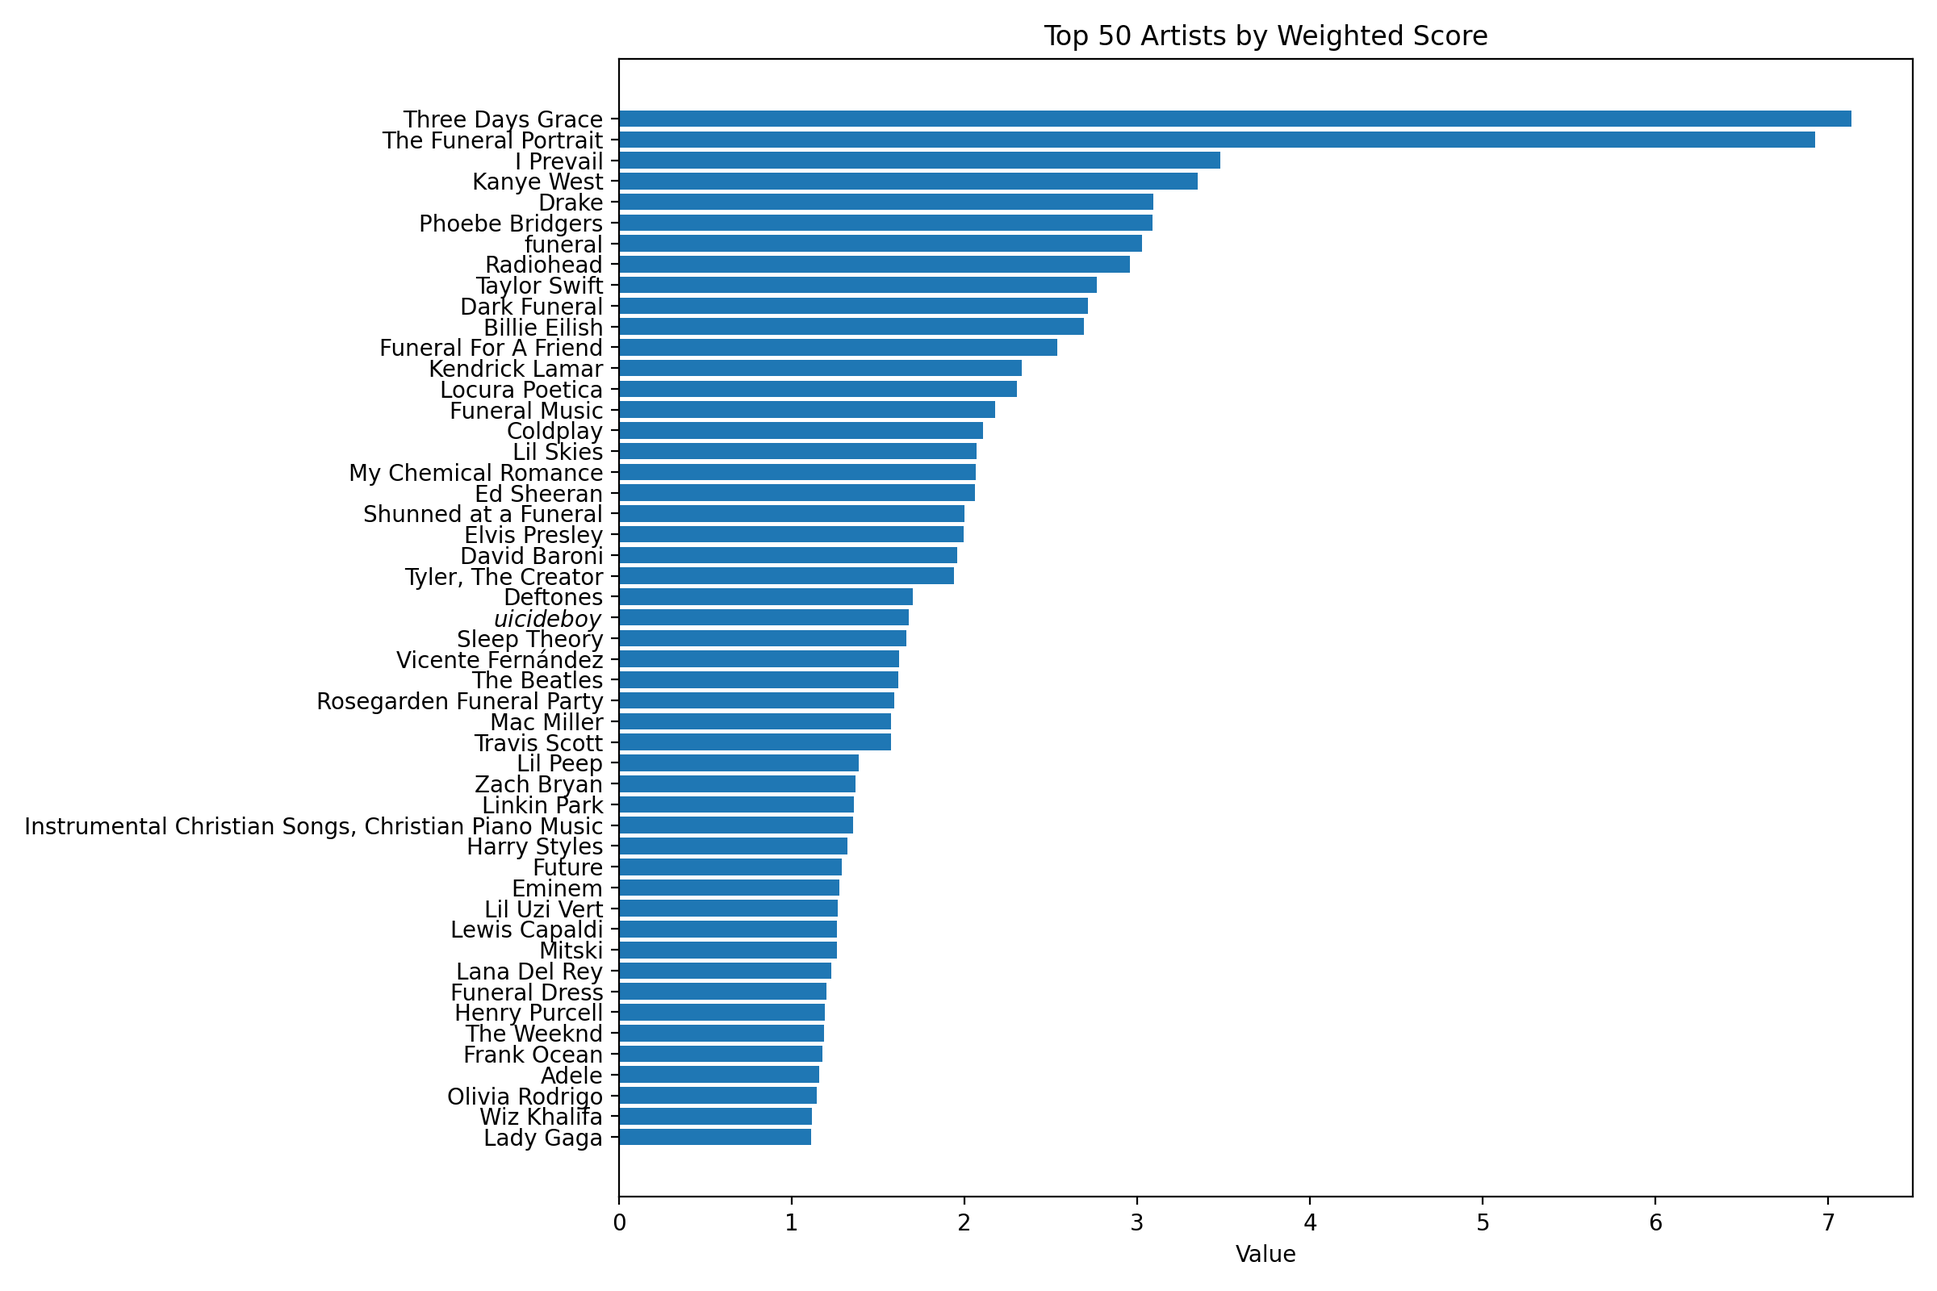
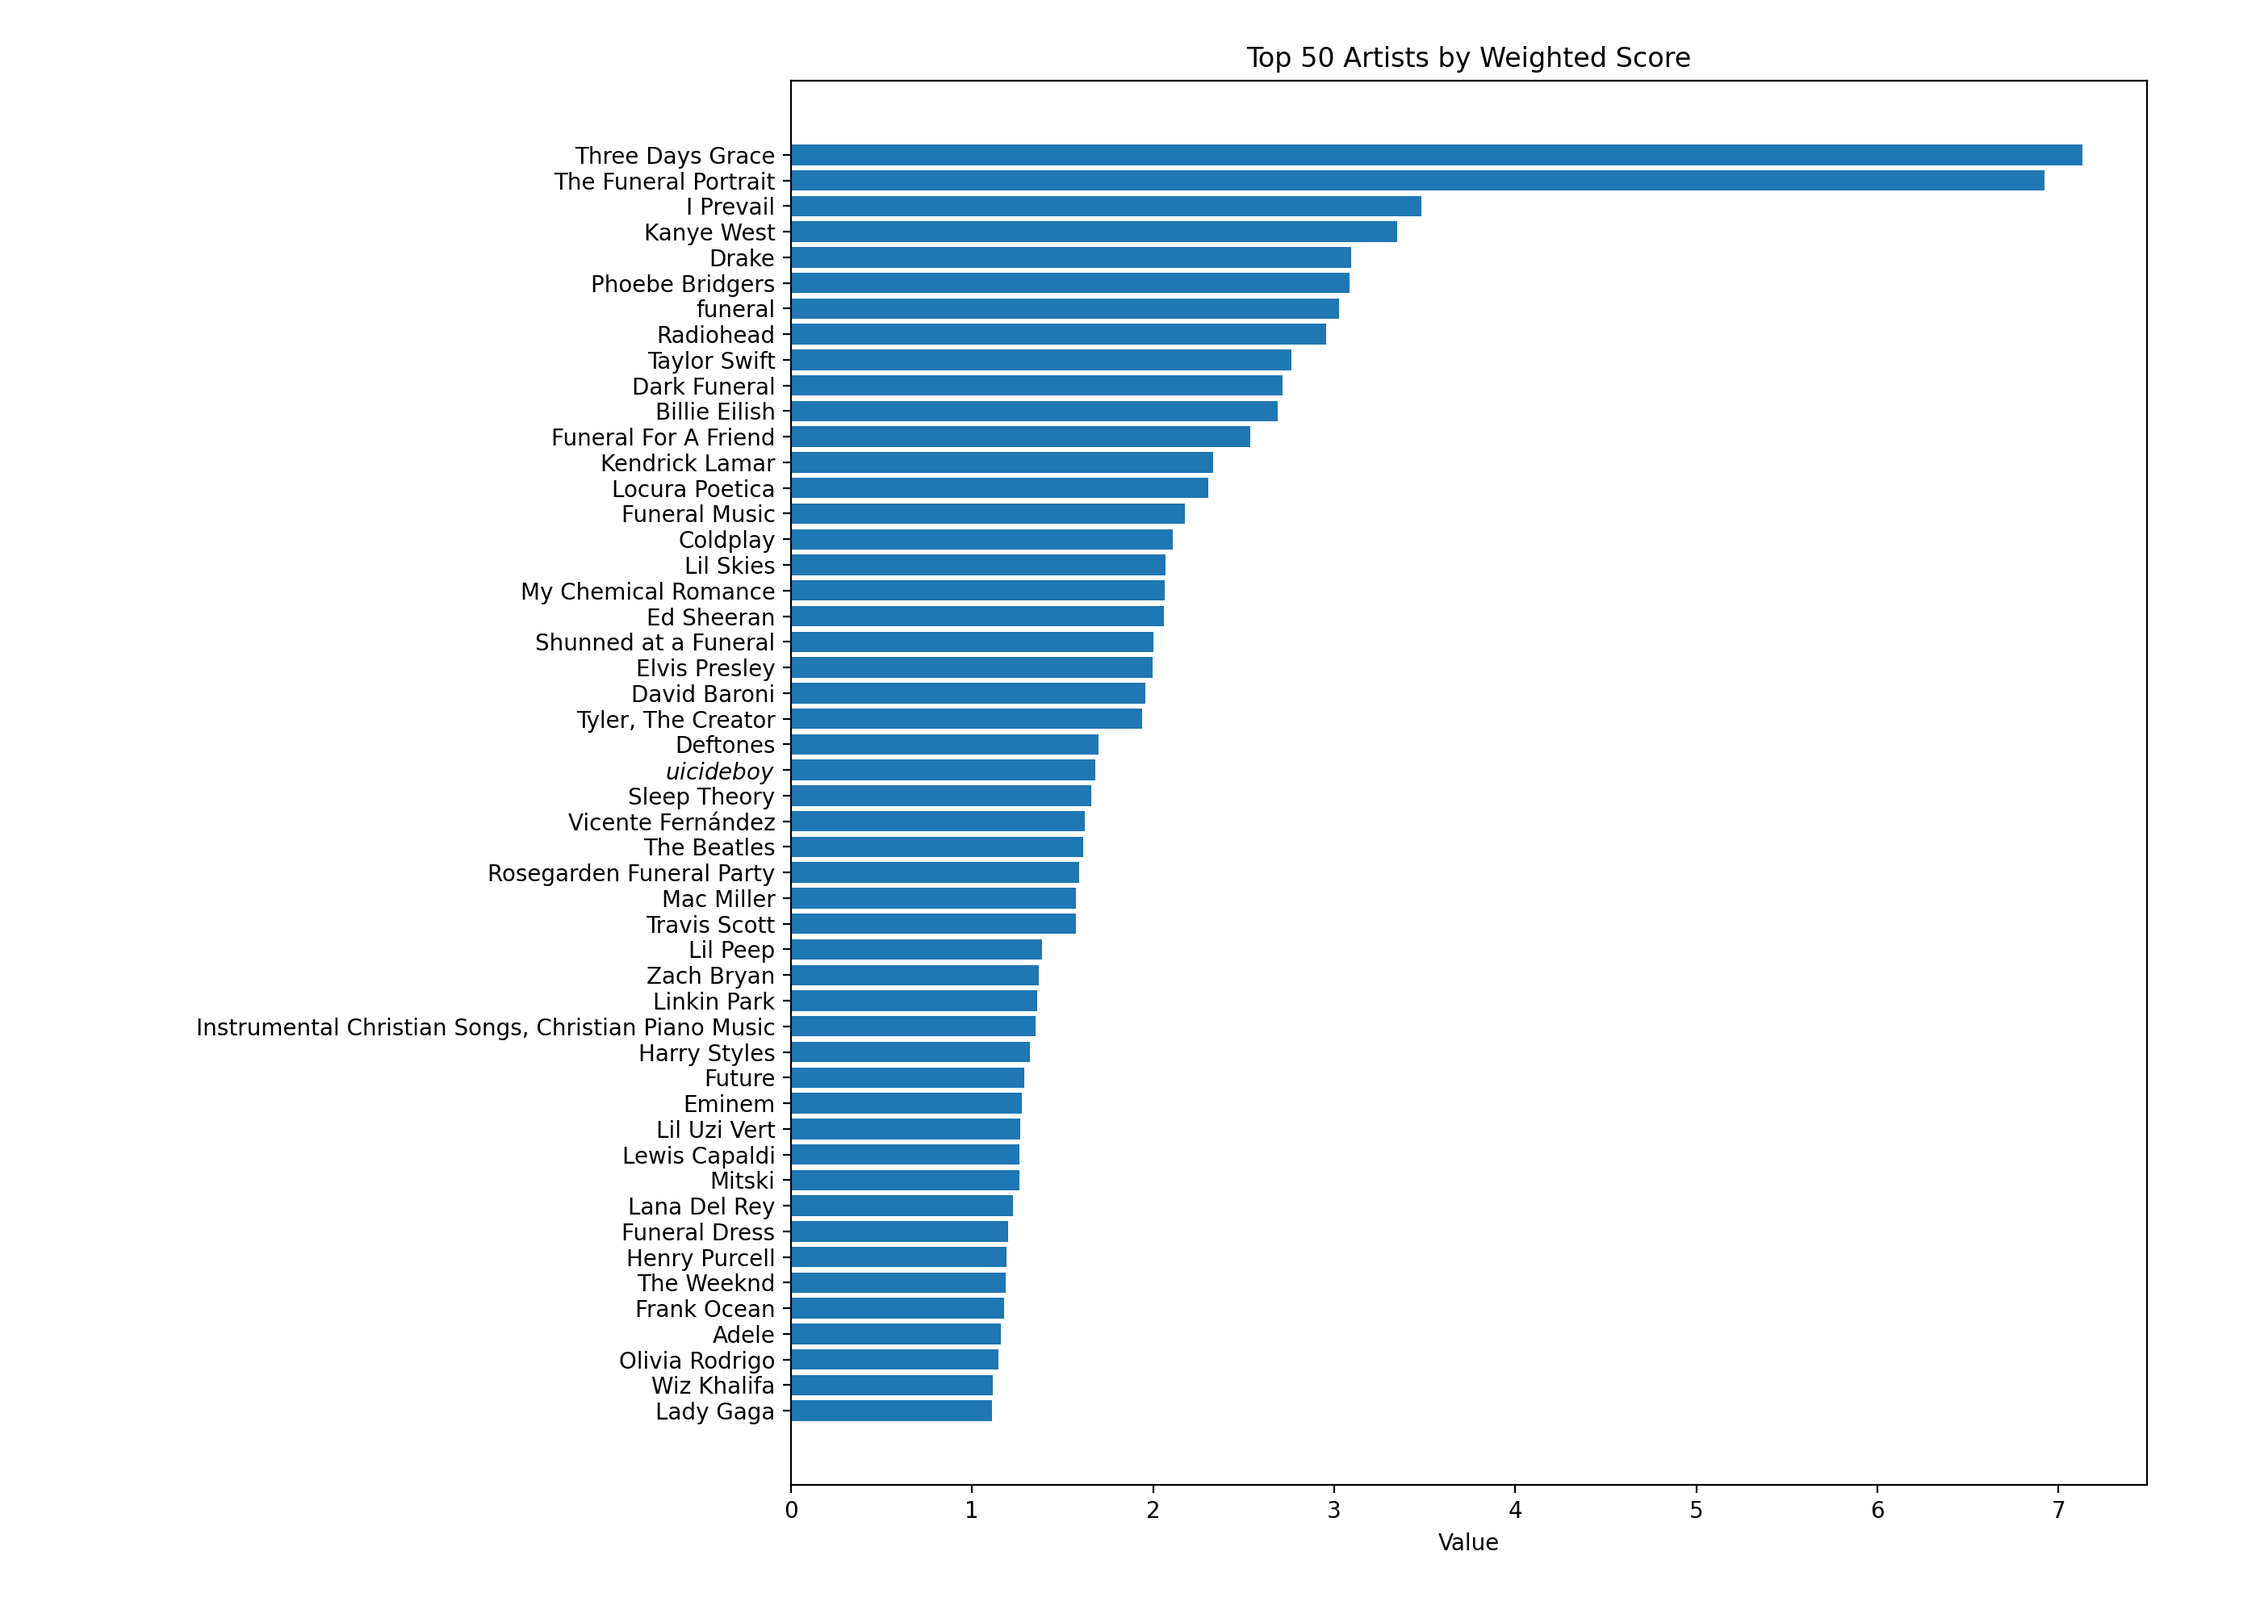
g

Changed region(s): [[0.0312, 0.0, 0.9688, 0.9688]]

diff --git a/generate_overall_summary.py b/generate_overall_summary.py
@@ -36,11 +36,17 @@ def save_barh(out_path: Path, title: str, labels: list, values: list):
     labels = labels[::-1]
     values = values[::-1]
     
-    plt.figure(figsize=(12, 8))
-    plt.barh(labels, values)
+    # Truncate labels if they are too long
+    truncated_labels = [lbl if len(lbl) <= 60 else lbl[:57] + "..." for lbl in labels]
+    
+    plt.figure(figsize=(14, 10))
+    plt.barh(truncated_labels, values)
     plt.title(title)
     plt.xlabel("Value")
-    plt.tight_layout()
+    
+    # Manually adjust left margin to accommodate long labels (up to 60 chars)
+    plt.subplots_adjust(left=0.35, right=0.95, top=0.95, bottom=0.08)
+    
     plt.savefig(out_path, dpi=200)
     plt.close()
 
